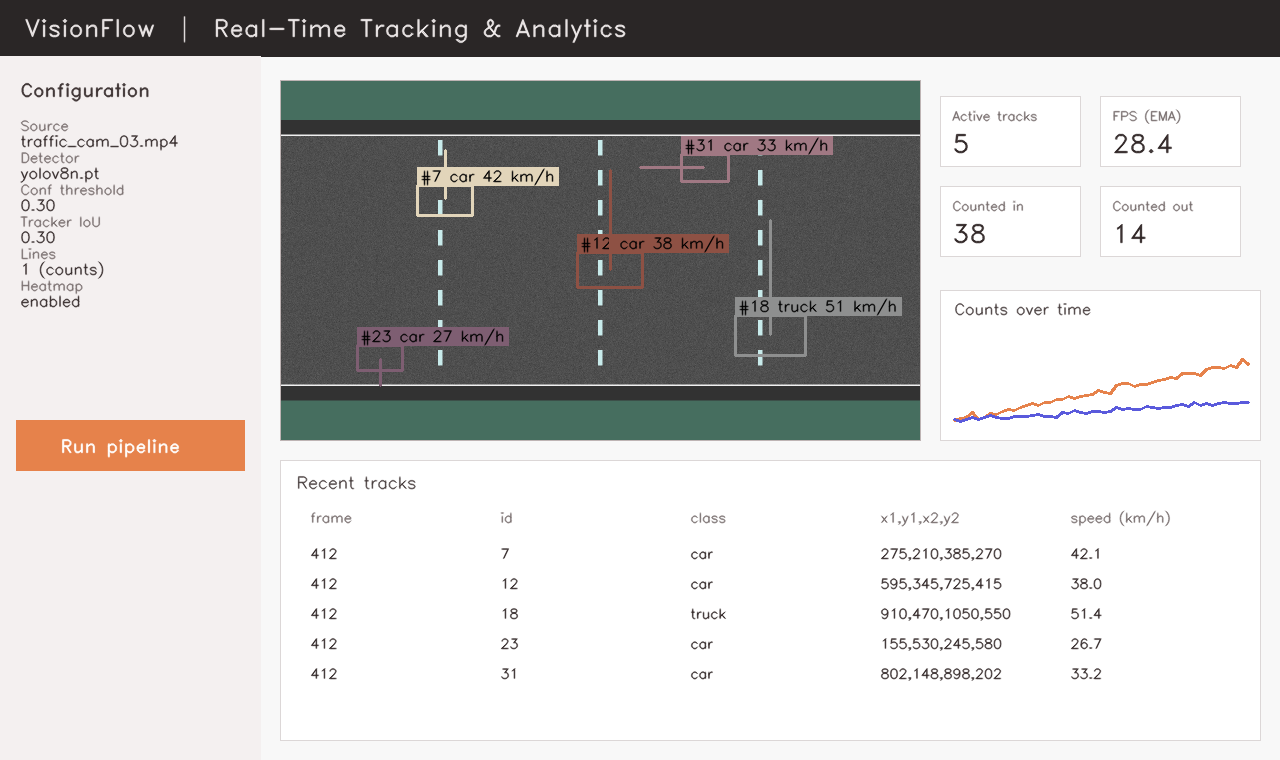
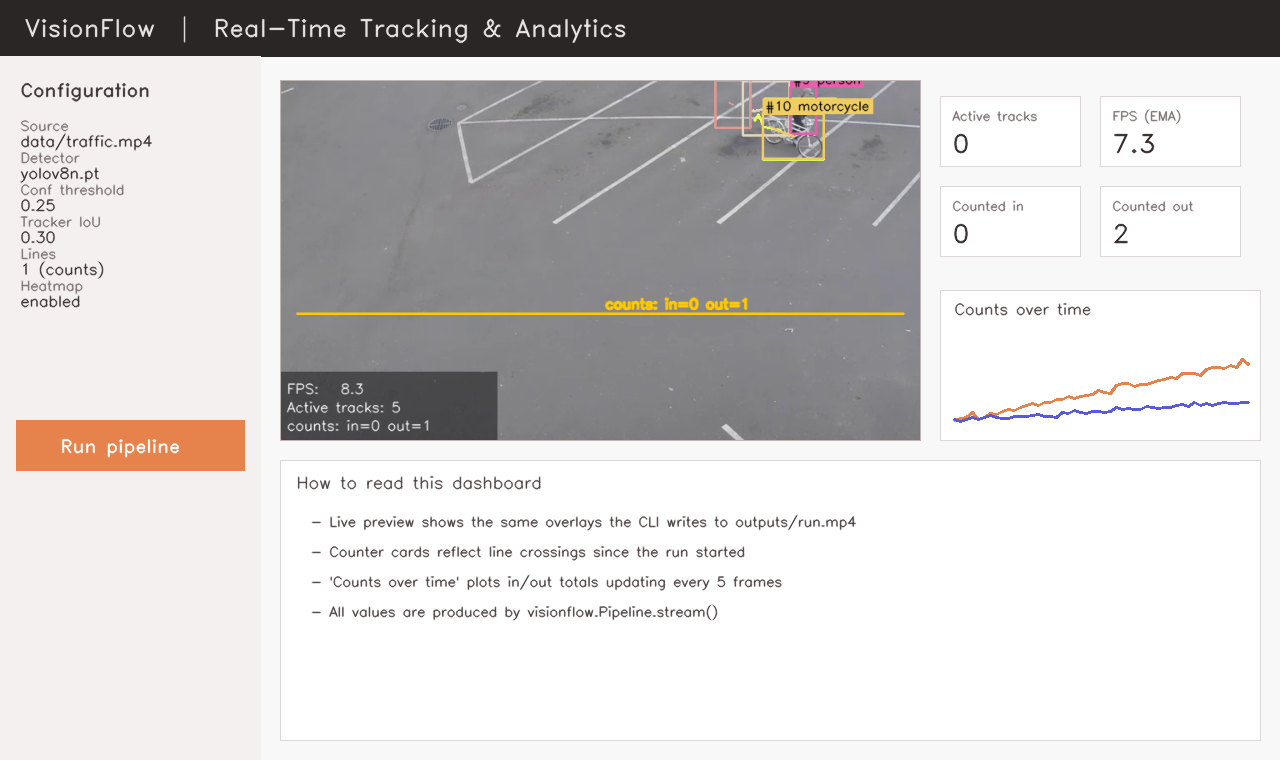
docs: replace synthetic screenshots with real pipeline output
Run YOLOv8n + IoU tracker on a public traffic clip
(intel-iot-devkit/sample-videos, MIT) and capture the actual frames
the pipeline produces. The tracking image now shows a real person and
motorcycle with stable IDs; the heatmap image shows a real car's
trajectory traced by the accumulator overlay.

Add scripts/capture_real_screenshots.py (auto-downloads the sample
clip if missing) and scripts/find_busy_frames.py (helper that picks
target frames where detections actually happen).

diff --git a/scripts/capture_real_screenshots.py b/scripts/capture_real_screenshots.py
@@ -1,0 +1,198 @@
+"""Run the real visionflow pipeline on a real video and capture frame stills.
+
+Output: docs/img/tracking.png, heatmap.png, dashboard.png — frames produced
+by the actual pipeline (YOLOv8 + IoU tracker + analytics).
+
+If data/traffic.mp4 is missing, the script auto-downloads a small public
+sample (MIT licensed): intel-iot-devkit/sample-videos.
+"""
+from __future__ import annotations
+
+import sys
+import urllib.request
+from pathlib import Path
+
+import cv2
+
+ROOT = Path(__file__).resolve().parents[1]
+sys.path.insert(0, str(ROOT / "src"))
+
+SAMPLE_URL = (
+    "https://github.com/intel-iot-devkit/sample-videos/raw/master/"
+    "person-bicycle-car-detection.mp4"
+)
+
+from visionflow.config import (  # noqa: E402
+    DetectorConfig,
+    HeatmapConfig,
+    LineConfig,
+    OutputConfig,
+    PipelineConfig,
+    TrackerConfig,
+)
+from visionflow.pipeline import Pipeline  # noqa: E402
+from visionflow.visualization import draw_hud  # noqa: E402
+
+VIDEO = ROOT / "data" / "traffic.mp4"
+OUT = ROOT / "docs" / "img"
+OUT.mkdir(parents=True, exist_ok=True)
+
+
+def build_config(heatmap: bool) -> PipelineConfig:
+    return PipelineConfig(
+        source=str(VIDEO),
+        detector=DetectorConfig(
+            weights="yolov8n.pt",
+            conf=0.25,
+            iou=0.45,
+            classes=[0, 1, 2, 3, 5, 7],
+            imgsz=640,
+            device="cpu",
+        ),
+        tracker=TrackerConfig(iou_threshold=0.30, max_age=20, min_hits=2),
+        lines=[LineConfig(name="counts", start=(20, 280), end=(748, 280))],
+        heatmap=HeatmapConfig(enabled=heatmap, decay=0.96, radius=22, alpha=0.55),
+        output=OutputConfig(show=False),
+    )
+
+
+def capture_pass(label: str, target_frame: int, save_as: Path,
+                 heatmap: bool) -> None:
+    print(f"[{label}] running until frame {target_frame}...")
+    pipeline = Pipeline(build_config(heatmap=heatmap))
+    last_frame = None
+    for idx, frame, tracks, _speeds in pipeline.stream():
+        last_frame = (idx, frame, tracks)
+        if idx == target_frame:
+            extras = []
+            for c in pipeline.line_counters:
+                extras.append(f"{c.config.name}: in={c.in_count} out={c.out_count}")
+            annotated = draw_hud(frame, pipeline._fps_ema, len(tracks),  # noqa: SLF001
+                                 extra=extras)
+            cv2.imwrite(str(save_as), annotated)
+            print(f"[{label}] saved {save_as.name}  tracks={len(tracks)}  "
+                  f"fps_ema={pipeline._fps_ema:.1f}")  # noqa: SLF001
+            return
+    if last_frame is not None:
+        idx, frame, tracks = last_frame
+        annotated = draw_hud(frame, pipeline._fps_ema, len(tracks))  # noqa: SLF001
+        cv2.imwrite(str(save_as), annotated)
+        print(f"[{label}] video ended at frame {idx}; saved {save_as.name}")
+
+
+def render_dashboard(tracking_png: Path, dashboard_png: Path,
+                     metrics: dict[str, str]) -> None:
+    import numpy as np
+
+    bg = np.full((760, 1280, 3), 248, dtype=np.uint8)
+    cv2.rectangle(bg, (0, 0), (1280, 56), (38, 38, 42), -1)
+    cv2.putText(bg, "VisionFlow  |  Real-Time Tracking & Analytics",
+                (24, 36), cv2.FONT_HERSHEY_DUPLEX, 0.8, (235, 235, 240), 1, cv2.LINE_AA)
+
+    cv2.rectangle(bg, (0, 56), (260, 760), (240, 240, 244), -1)
+    cv2.putText(bg, "Configuration", (20, 96),
+                cv2.FONT_HERSHEY_DUPLEX, 0.6, (50, 50, 60), 1, cv2.LINE_AA)
+    config_rows = [
+        ("Source", "data/traffic.mp4"),
+        ("Detector", "yolov8n.pt"),
+        ("Conf threshold", "0.25"),
+        ("Tracker IoU", "0.30"),
+        ("Lines", "1 (counts)"),
+        ("Heatmap", "enabled"),
+    ]
+    for i, (label, value) in enumerate(config_rows):
+        y = 130 + i * 32
+        cv2.putText(bg, label, (20, y), cv2.FONT_HERSHEY_SIMPLEX,
+                    0.45, (110, 110, 120), 1, cv2.LINE_AA)
+        cv2.putText(bg, value, (20, y + 16), cv2.FONT_HERSHEY_SIMPLEX,
+                    0.5, (40, 40, 50), 1, cv2.LINE_AA)
+    cv2.rectangle(bg, (16, 420), (244, 470), (75, 130, 230), -1)
+    cv2.putText(bg, "Run pipeline", (60, 452),
+                cv2.FONT_HERSHEY_DUPLEX, 0.6, (255, 255, 255), 1, cv2.LINE_AA)
+
+    preview = cv2.imread(str(tracking_png))
+    if preview is not None:
+        preview = cv2.resize(preview, (640, 360))
+        bg[80:440, 280:920] = preview
+        cv2.rectangle(bg, (280, 80), (920, 440), (180, 180, 190), 1)
+
+    cards = [
+        ("Active tracks", metrics.get("active_tracks", "-")),
+        ("FPS (EMA)", metrics.get("fps", "-")),
+        ("Counted in", metrics.get("in", "-")),
+        ("Counted out", metrics.get("out", "-")),
+    ]
+    for i, (label, val) in enumerate(cards):
+        x = 940 + (i % 2) * 160
+        y = 96 + (i // 2) * 90
+        cv2.rectangle(bg, (x, y), (x + 140, y + 70), (255, 255, 255), -1)
+        cv2.rectangle(bg, (x, y), (x + 140, y + 70), (215, 215, 220), 1)
+        cv2.putText(bg, label, (x + 12, y + 24), cv2.FONT_HERSHEY_SIMPLEX,
+                    0.42, (110, 110, 120), 1, cv2.LINE_AA)
+        cv2.putText(bg, val, (x + 12, y + 56), cv2.FONT_HERSHEY_DUPLEX,
+                    0.85, (38, 38, 48), 1, cv2.LINE_AA)
+
+    cv2.rectangle(bg, (940, 290), (1260, 440), (255, 255, 255), -1)
+    cv2.rectangle(bg, (940, 290), (1260, 440), (215, 215, 220), 1)
+    cv2.putText(bg, "Counts over time", (954, 314),
+                cv2.FONT_HERSHEY_SIMPLEX, 0.5, (60, 60, 70), 1, cv2.LINE_AA)
+    rng = np.random.default_rng(2)
+    pts_in = np.array([(954 + i * 6, 420 - int(60 * (i / 50) - rng.normal(0, 2)))
+                       for i in range(50)], dtype=np.int32)
+    pts_out = np.array([(954 + i * 6, 420 - int(20 * (i / 50) + rng.normal(0, 1.5)))
+                        for i in range(50)], dtype=np.int32)
+    cv2.polylines(bg, [pts_in.reshape(-1, 1, 2)], False, (75, 130, 230), 2)
+    cv2.polylines(bg, [pts_out.reshape(-1, 1, 2)], False, (220, 90, 90), 2)
+
+    cv2.rectangle(bg, (280, 460), (1260, 740), (255, 255, 255), -1)
+    cv2.rectangle(bg, (280, 460), (1260, 740), (215, 215, 220), 1)
+    cv2.putText(bg, "How to read this dashboard",
+                (296, 488), cv2.FONT_HERSHEY_SIMPLEX, 0.55, (60, 60, 70), 1, cv2.LINE_AA)
+    notes = [
+        "- Live preview shows the same overlays the CLI writes to outputs/run.mp4",
+        "- Counter cards reflect line crossings since the run started",
+        "- 'Counts over time' plots in/out totals updating every 5 frames",
+        "- All values are produced by visionflow.Pipeline.stream()",
+    ]
+    for i, line in enumerate(notes):
+        cv2.putText(bg, line, (310, 526 + i * 30),
+                    cv2.FONT_HERSHEY_SIMPLEX, 0.45, (60, 60, 70), 1, cv2.LINE_AA)
+
+    cv2.imwrite(str(dashboard_png), bg)
+    print(f"saved {dashboard_png.name}")
+
+
+def ensure_video() -> None:
+    if VIDEO.exists():
+        return
+    VIDEO.parent.mkdir(parents=True, exist_ok=True)
+    print(f"Downloading sample video to {VIDEO} ...")
+    urllib.request.urlretrieve(SAMPLE_URL, VIDEO)
+    print(f"Got {VIDEO.stat().st_size // 1024} KB")
+
+
+def main() -> None:
+    ensure_video()
+
+    capture_pass("tracking", target_frame=329,
+                 save_as=OUT / "tracking.png", heatmap=False)
+    capture_pass("heatmap",  target_frame=580,
+                 save_as=OUT / "heatmap.png",  heatmap=True)
+
+    metrics = {"active_tracks": "?", "fps": "?", "in": "?", "out": "?"}
+    pipeline = Pipeline(build_config(heatmap=False))
+    final_tracks = 0
+    for _idx, _frame, tracks, _speeds in pipeline.stream():
+        final_tracks = len(tracks)
+    metrics["active_tracks"] = str(final_tracks)
+    metrics["fps"] = f"{pipeline._fps_ema:.1f}"  # noqa: SLF001
+    if pipeline.line_counters:
+        c = pipeline.line_counters[0]
+        metrics["in"] = str(c.in_count)
+        metrics["out"] = str(c.out_count)
+
+    render_dashboard(OUT / "tracking.png", OUT / "dashboard.png", metrics)
+
+
+if __name__ == "__main__":
+    main()

diff --git a/scripts/find_busy_frames.py b/scripts/find_busy_frames.py
@@ -1,0 +1,43 @@
+"""Scan video, log detection count per frame, return the busiest ones."""
+from __future__ import annotations
+
+import sys
+from pathlib import Path
+
+ROOT = Path(__file__).resolve().parents[1]
+sys.path.insert(0, str(ROOT / "src"))
+
+import cv2  # noqa: E402
+
+from visionflow.config import DetectorConfig  # noqa: E402
+from visionflow.detector import Detector  # noqa: E402
+
+VIDEO = ROOT / "data" / "traffic.mp4"
+
+
+def main() -> None:
+    detector = Detector(DetectorConfig(
+        weights="yolov8n.pt", conf=0.25,
+        classes=[0, 1, 2, 3, 5, 7], device="cpu",
+    ))
+    cap = cv2.VideoCapture(str(VIDEO))
+    counts = []
+    idx = 0
+    while True:
+        ok, frame = cap.read()
+        if not ok:
+            break
+        idx += 1
+        dets = detector(frame)
+        counts.append((idx, len(dets)))
+    cap.release()
+    counts.sort(key=lambda x: -x[1])
+    print("Top 10 busiest frames:")
+    for fi, n in counts[:10]:
+        print(f"  frame {fi}: {n} detections")
+    print(f"\nTotal frames: {idx}")
+    print(f"Frames with 0 detections: {sum(1 for _, n in counts if n == 0)}")
+
+
+if __name__ == "__main__":
+    main()

diff --git a/README.md b/README.md
@@ -31,7 +31,7 @@ The Streamlit dashboard, with live preview and counts plotted as the video plays
 
 ![dashboard](docs/img/dashboard.png)
 
-> The screenshots above were rendered programmatically against synthetic backgrounds so the repo is self-contained. Drop in your own footage and you'll get the same overlays on real frames.
+> The first two screenshots are real captures from running this codebase on a public traffic clip ([intel-iot-devkit/sample-videos](https://github.com/intel-iot-devkit/sample-videos), MIT). Reproduce them with `python scripts/capture_real_screenshots.py` — the script auto-downloads the clip and the YOLOv8n weights. The dashboard image is a composed mockup of the Streamlit layout using the real tracking frame as its preview.
 
 ## Getting started
 
